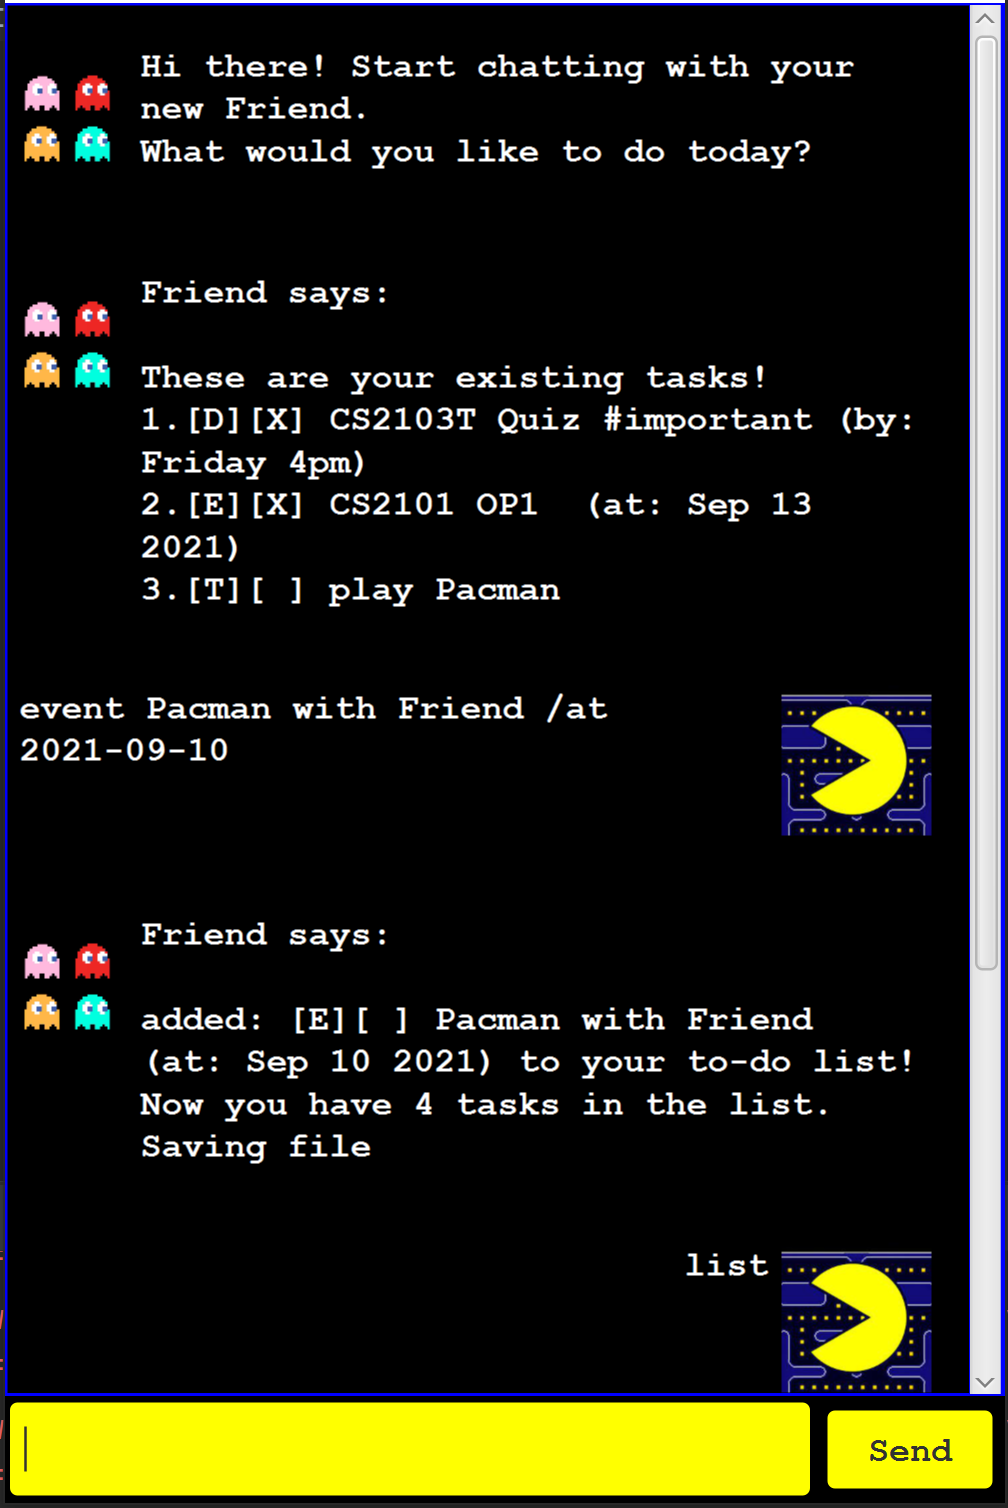
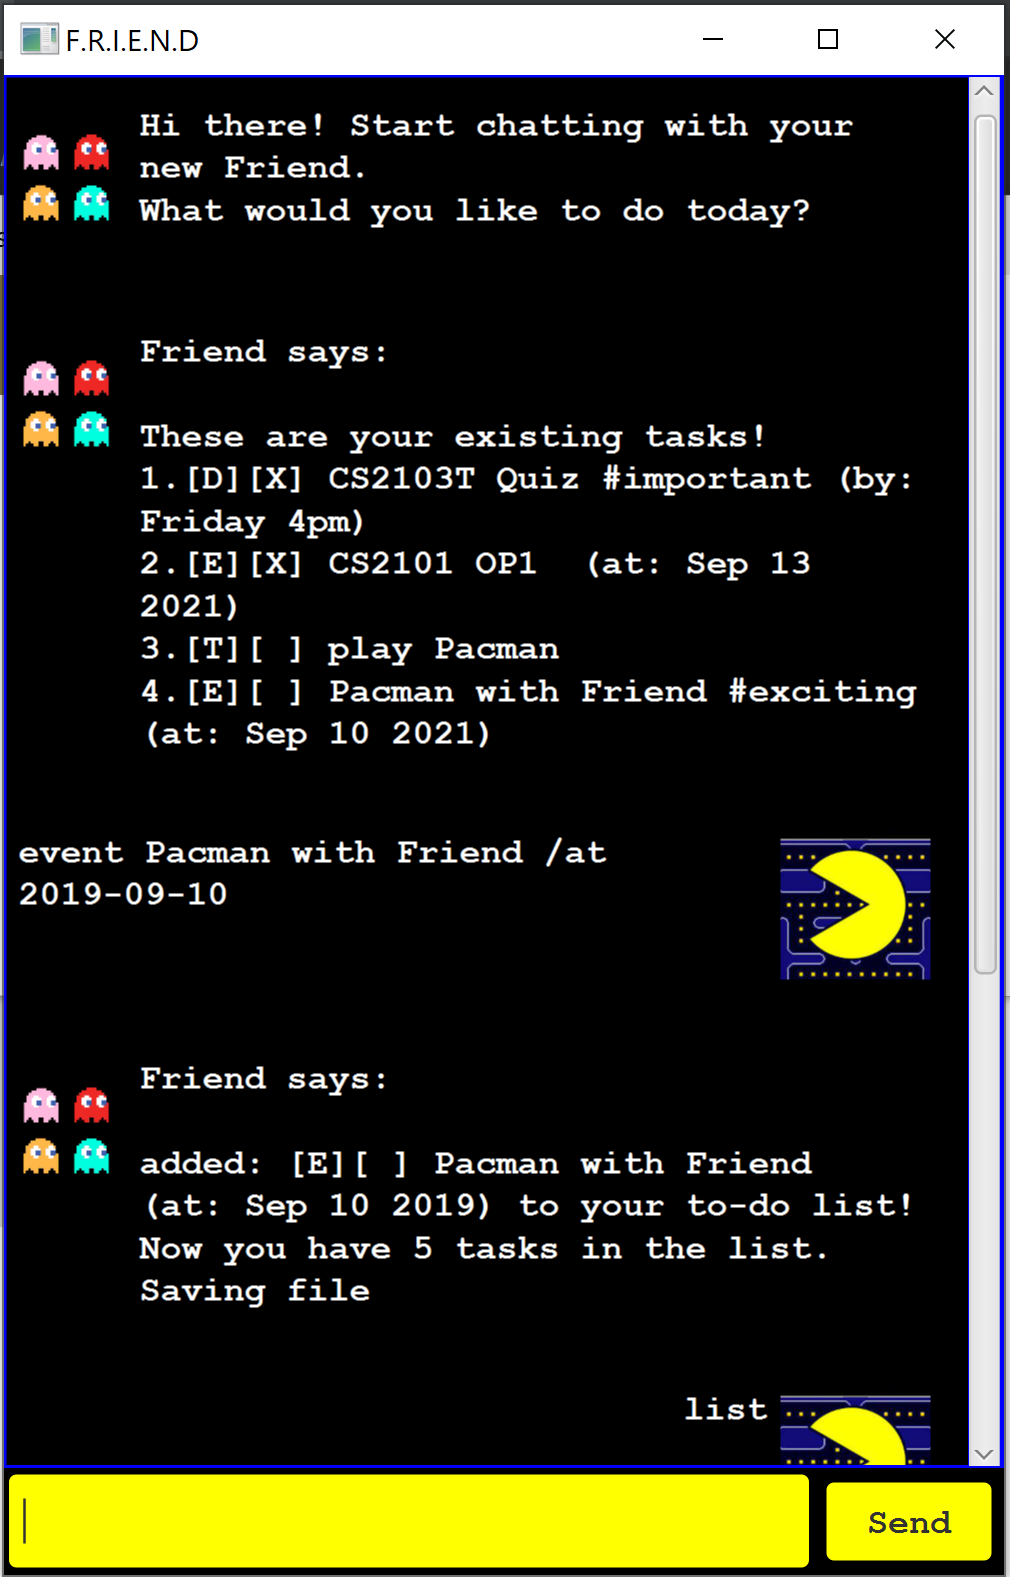
Add stage title for GUI

Changed region(s): [[0.0, 0.0, 1.0, 1.0], [0.3998, 0.5298, 0.6151, 0.561], [0.8304, 0.2493, 0.8919, 0.3117]]

diff --git a/src/main/java/duke/Main.java b/src/main/java/duke/Main.java
@@ -18,6 +18,7 @@ public class Main extends Application {
             FXMLLoader fxmlLoader = new FXMLLoader(Main.class.getResource("/view/MainWindow.fxml"));
             AnchorPane ap = fxmlLoader.load();
             Scene scene = new Scene(ap);
+            stage.setTitle("F.R.I.E.N.D");
             stage.setScene(scene);
             fxmlLoader.<MainWindow>getController().setDuke(duke);
             stage.show();
